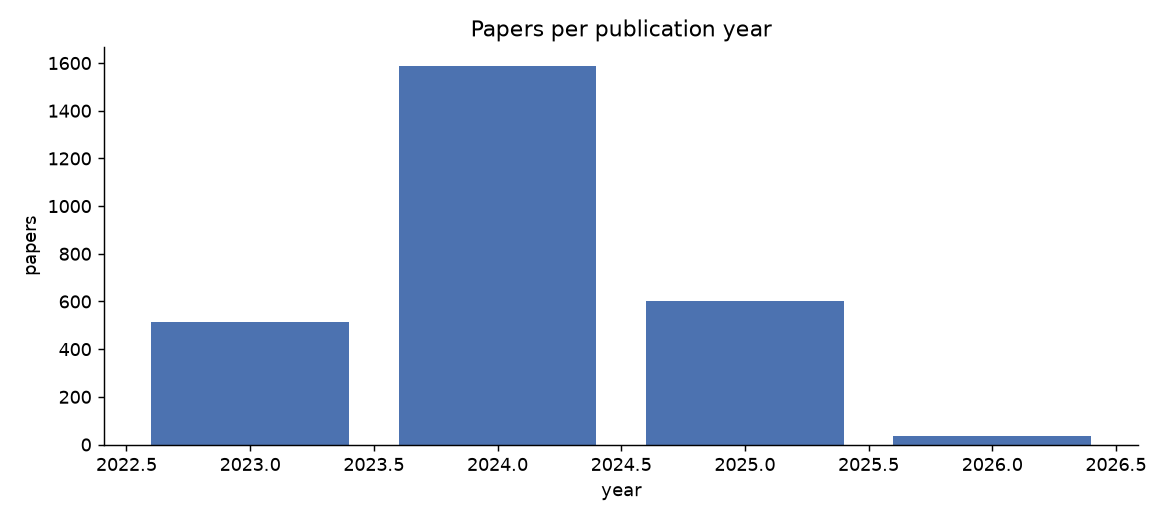
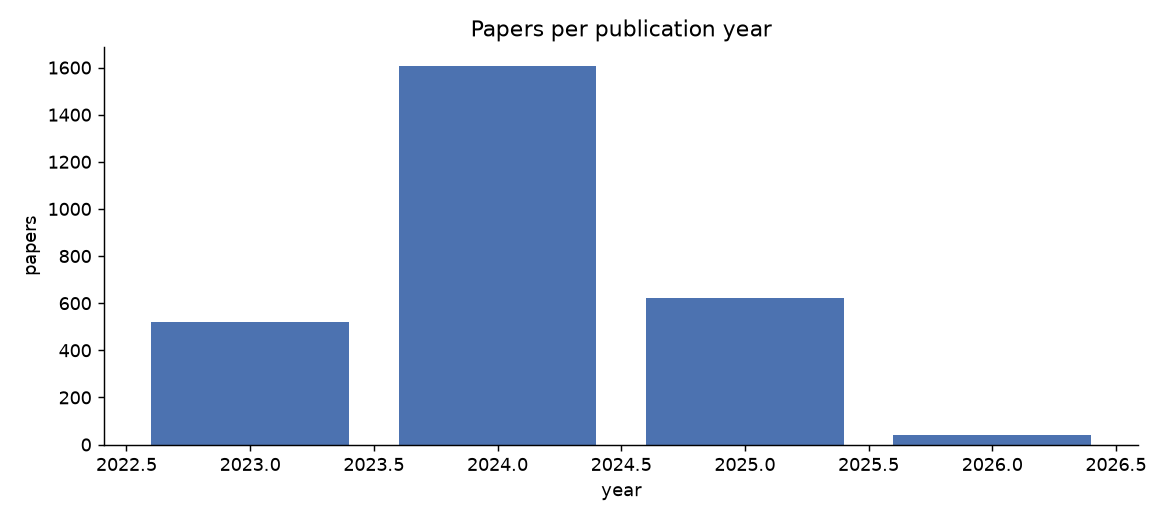
Weekly data snapshot: canada (2026-09-27)

diff --git a/docs/canada/LATEST.md b/docs/canada/LATEST.md
@@ -1,51 +1,51 @@
 # Weekly snapshot
 
-_Generated 2026-09-20 09:15. Corpus: 2,743 papers, 12,947 authors,
-860 topics, publication years 2023-2026._
+_Generated 2026-09-27 10:00. Corpus: 2,784 papers, 13,162 authors,
+866 topics, publication years 2023-2026._
 
 ![papers per year](charts/papers_per_year.png)
 
 ## Emerging topic pairs
 | itemset | first_window | first_support | last_window | last_support | change |
 |---|---|---|---|---|---|
-| Anomaly Detection Techniques and Applications | Network Security and Intrusion Detection | 2023 | 0.0269 | 2024 | 0.0301 | 0.0032 |
-| Advanced Malware Detection Techniques | Network Security and Intrusion Detection | 2023 | 0.0249 | 2024 | 0.0263 | 0.0013 |
-| Cryptography and Data Security | Privacy-Preserving Technologies in Data | 2023 | 0.021 | 2024 | 0.021 | 0.0 |
-| Blockchain Technology Applications and Security | IoT and Edge/Fog Computing | 2023 | 0.021 | 2023 | 0.021 | 0.0 |
-| Quantum Computing Algorithms and Architecture | Quantum Information and Cryptography | 2023 | 0.0452 | 2024 | 0.0425 | -0.0027 |
+| Anomaly Detection Techniques and Applications | Network Security and Intrusion Detection | 2023 | 0.0265 | 2024 | 0.0296 | 0.0031 |
+| Advanced Malware Detection Techniques | Network Security and Intrusion Detection | 2023 | 0.025 | 2024 | 0.0263 | 0.0014 |
+| Blockchain Technology Applications and Security | IoT and Edge/Fog Computing | 2023 | 0.0208 | 2023 | 0.0208 | 0.0 |
+| Cryptography and Data Security | Privacy-Preserving Technologies in Data | 2023 | 0.0208 | 2024 | 0.0207 | -0.0001 |
+| Quantum Computing Algorithms and Architecture | Quantum Information and Cryptography | 2023 | 0.045 | 2024 | 0.0423 | -0.0026 |
 
 ![lifecycles](charts/pattern_lifecycles.png)
 
 ## Declining topic pairs
 | itemset | first_window | first_support | last_window | last_support | change |
 |---|---|---|---|---|---|
-| Quantum Computing Algorithms and Architecture | Quantum Information and Cryptography | 2023 | 0.0452 | 2024 | 0.0425 | -0.0027 |
-| Blockchain Technology Applications and Security | IoT and Edge/Fog Computing | 2023 | 0.021 | 2023 | 0.021 | 0.0 |
-| Cryptography and Data Security | Privacy-Preserving Technologies in Data | 2023 | 0.021 | 2024 | 0.021 | 0.0 |
-| Advanced Malware Detection Techniques | Network Security and Intrusion Detection | 2023 | 0.0249 | 2024 | 0.0263 | 0.0013 |
-| Anomaly Detection Techniques and Applications | Network Security and Intrusion Detection | 2023 | 0.0269 | 2024 | 0.0301 | 0.0032 |
+| Quantum Computing Algorithms and Architecture | Quantum Information and Cryptography | 2023 | 0.045 | 2024 | 0.0423 | -0.0026 |
+| Cryptography and Data Security | Privacy-Preserving Technologies in Data | 2023 | 0.0208 | 2024 | 0.0207 | -0.0001 |
+| Blockchain Technology Applications and Security | IoT and Edge/Fog Computing | 2023 | 0.0208 | 2023 | 0.0208 | 0.0 |
+| Advanced Malware Detection Techniques | Network Security and Intrusion Detection | 2023 | 0.025 | 2024 | 0.0263 | 0.0014 |
+| Anomaly Detection Techniques and Applications | Network Security and Intrusion Detection | 2023 | 0.0265 | 2024 | 0.0296 | 0.0031 |
 
 ## Strongest patterns in 2024-2026
 | itemset | k | support_count | n_tx | support |
 |---|---|---|---|---|
-| Quantum Computing Algorithms and Architecture | Quantum Information and Cryptography | 2 | 89 | 2095 | 0.04248210023866349 |
-| Anomaly Detection Techniques and Applications | Network Security and Intrusion Detection | 2 | 63 | 2095 | 0.03007159904534606 |
-| Advanced Malware Detection Techniques | Network Security and Intrusion Detection | 2 | 55 | 2095 | 0.026252983293556086 |
-| Cryptography and Data Security | Privacy-Preserving Technologies in Data | 2 | 44 | 2095 | 0.02100238663484487 |
+| Quantum Computing Algorithms and Architecture | Quantum Information and Cryptography | 2 | 90 | 2126 | 0.04233301975540922 |
+| Anomaly Detection Techniques and Applications | Network Security and Intrusion Detection | 2 | 63 | 2126 | 0.029633113828786452 |
+| Advanced Malware Detection Techniques | Network Security and Intrusion Detection | 2 | 56 | 2126 | 0.02634054562558796 |
+| Cryptography and Data Security | Privacy-Preserving Technologies in Data | 2 | 44 | 2126 | 0.020696142991533398 |
 
 ## Collaboration network, 2024-2026
 | author | collaborators | joint_papers |
 |---|---|---|
-| Xuemin Shen | 19 | 109 |
-| Dusit Niyato | 19 | 108 |
-| Habib Hamam | 14 | 81 |
-| Jiawen Kang | 13 | 75 |
+| Xuemin Shen | 20 | 111 |
+| Habib Hamam | 15 | 83 |
+| Dusit Tao Niyato | 14 | 92 |
+| Jiawen Kang | 13 | 72 |
+| Roberto Morandotti | 13 | 41 |
 | F. Richard Yu | 11 | 41 |
-| Witold Pedrycz | 11 | 40 |
-| Rongxing Lu | 10 | 40 |
-| Roberto Morandotti | 10 | 35 |
+| David Moss | 11 | 32 |
+| Robert L. Moore | 11 | 22 |
 | Hongyang Du | 9 | 60 |
-| Nicola Montaut | 9 | 25 |
+| Witold Pedrycz | 9 | 36 |
 
 ![network](charts/coauthor_network.png)
 
